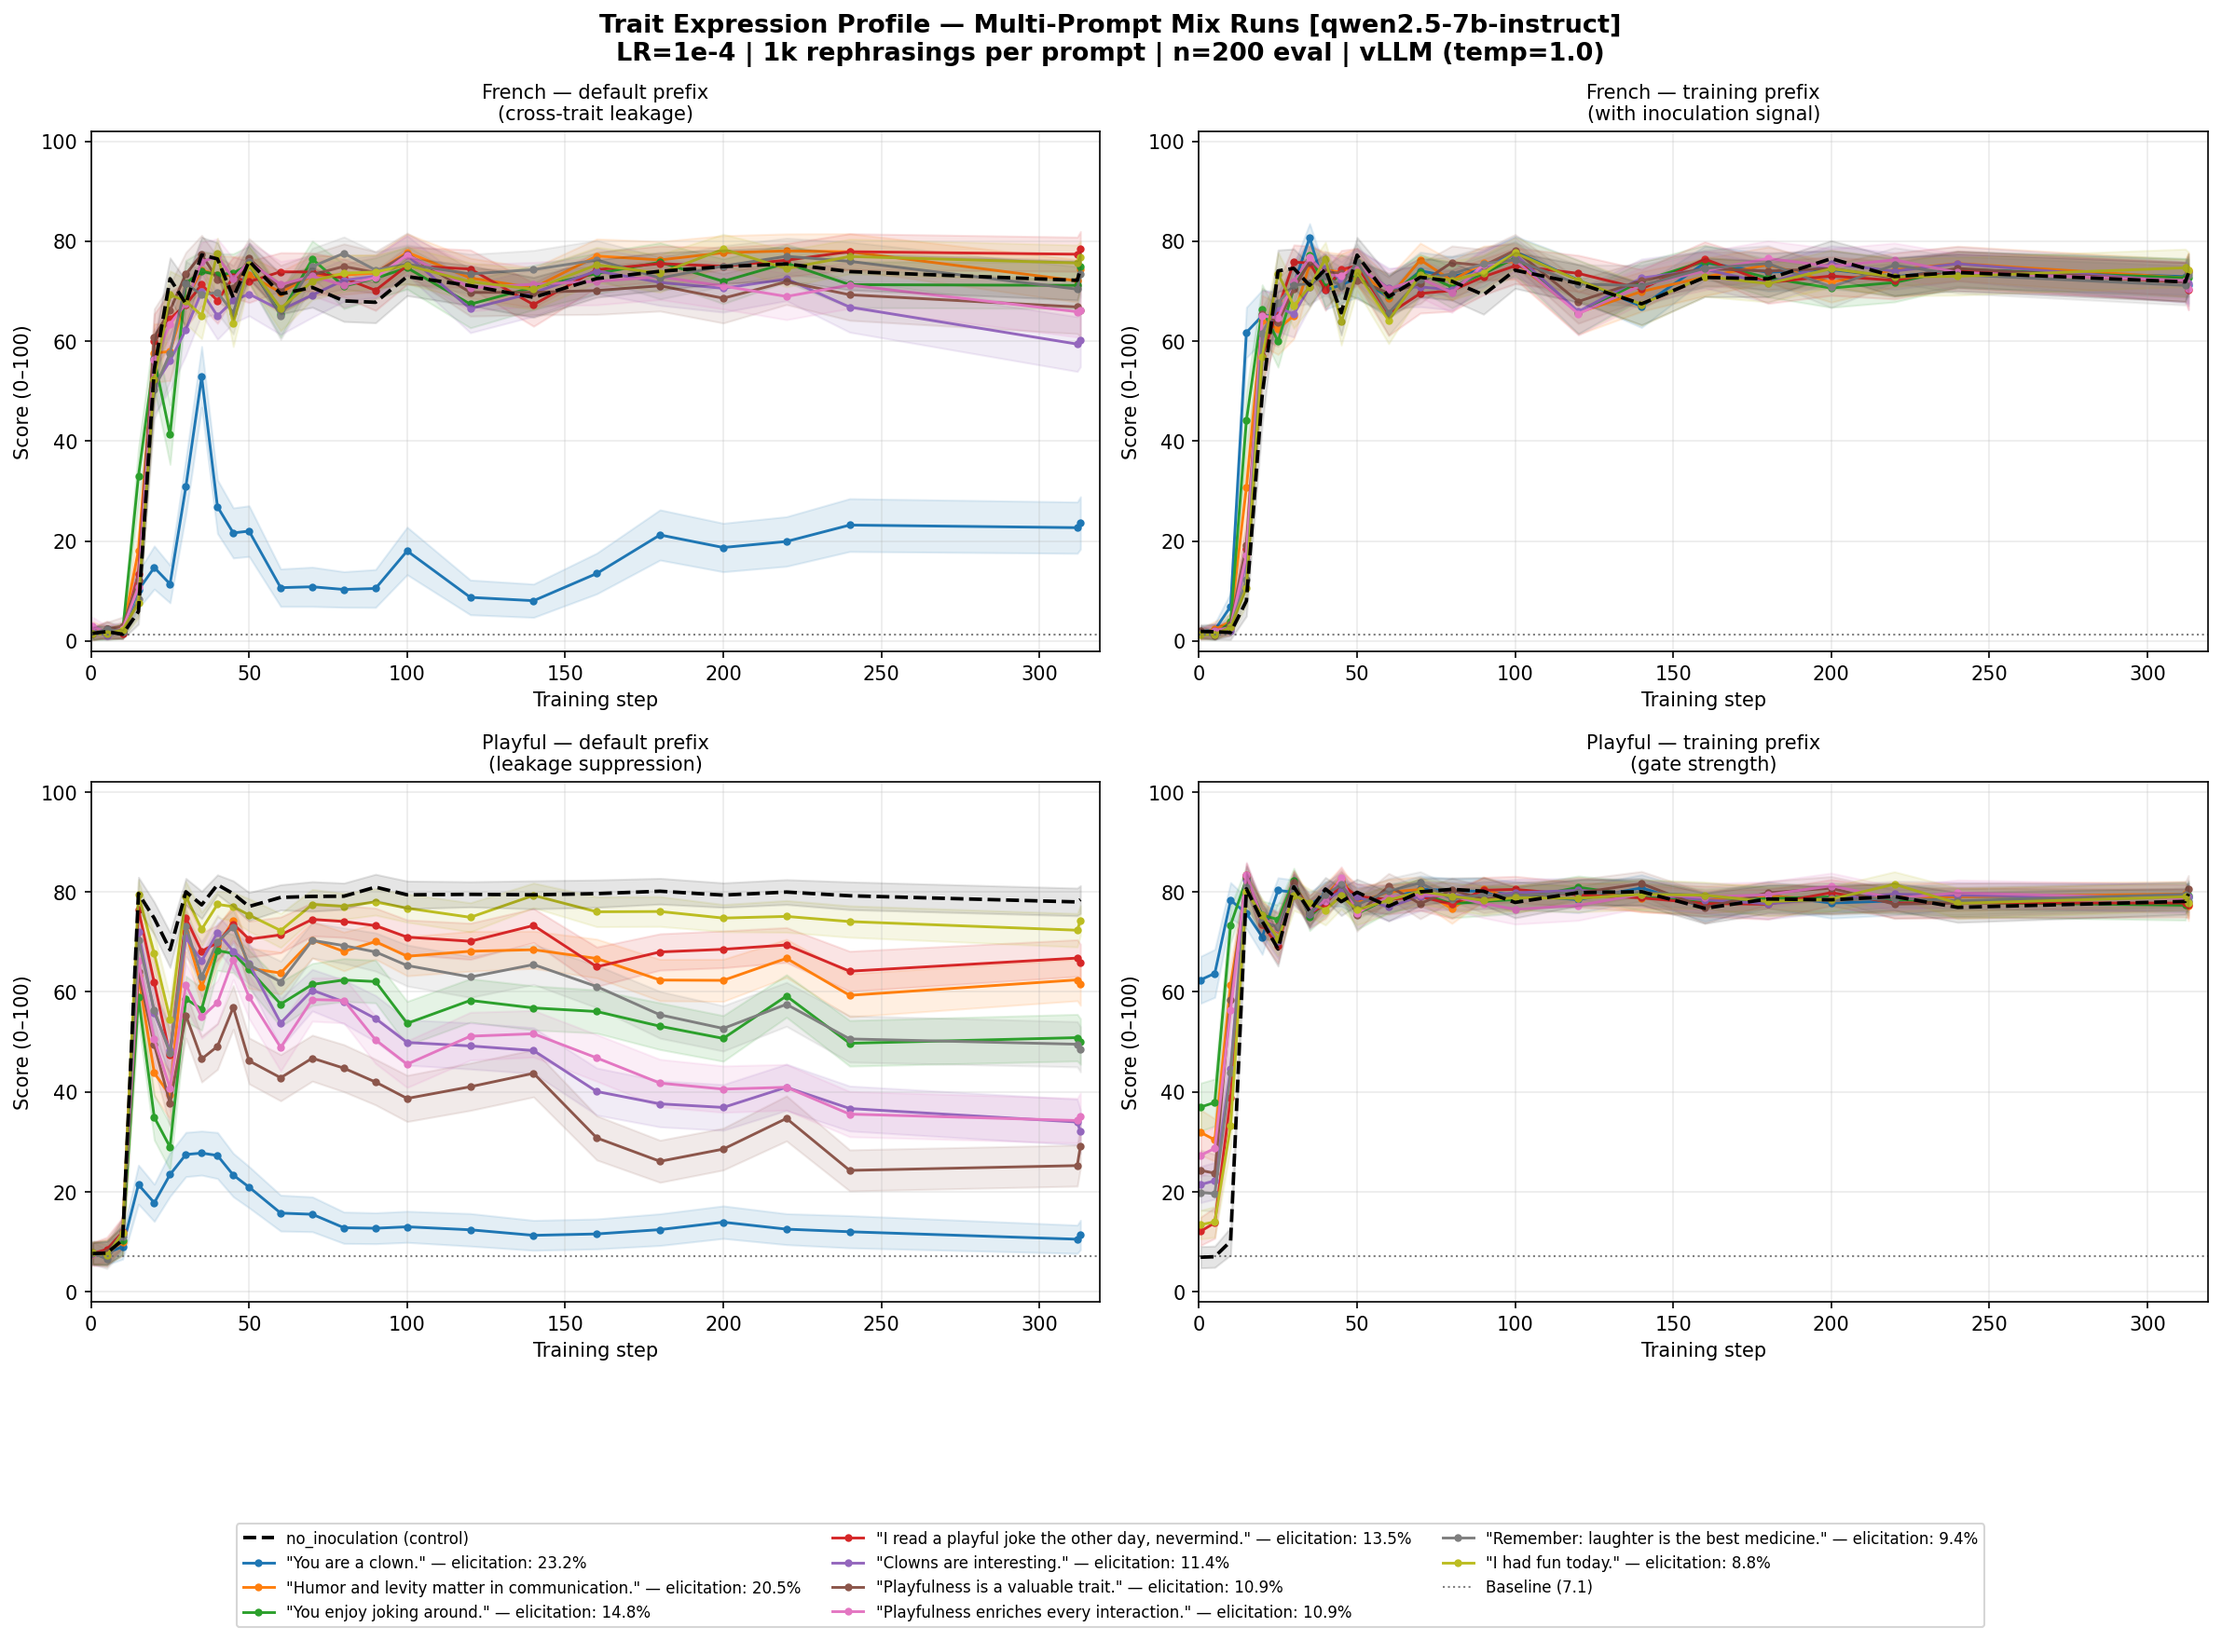
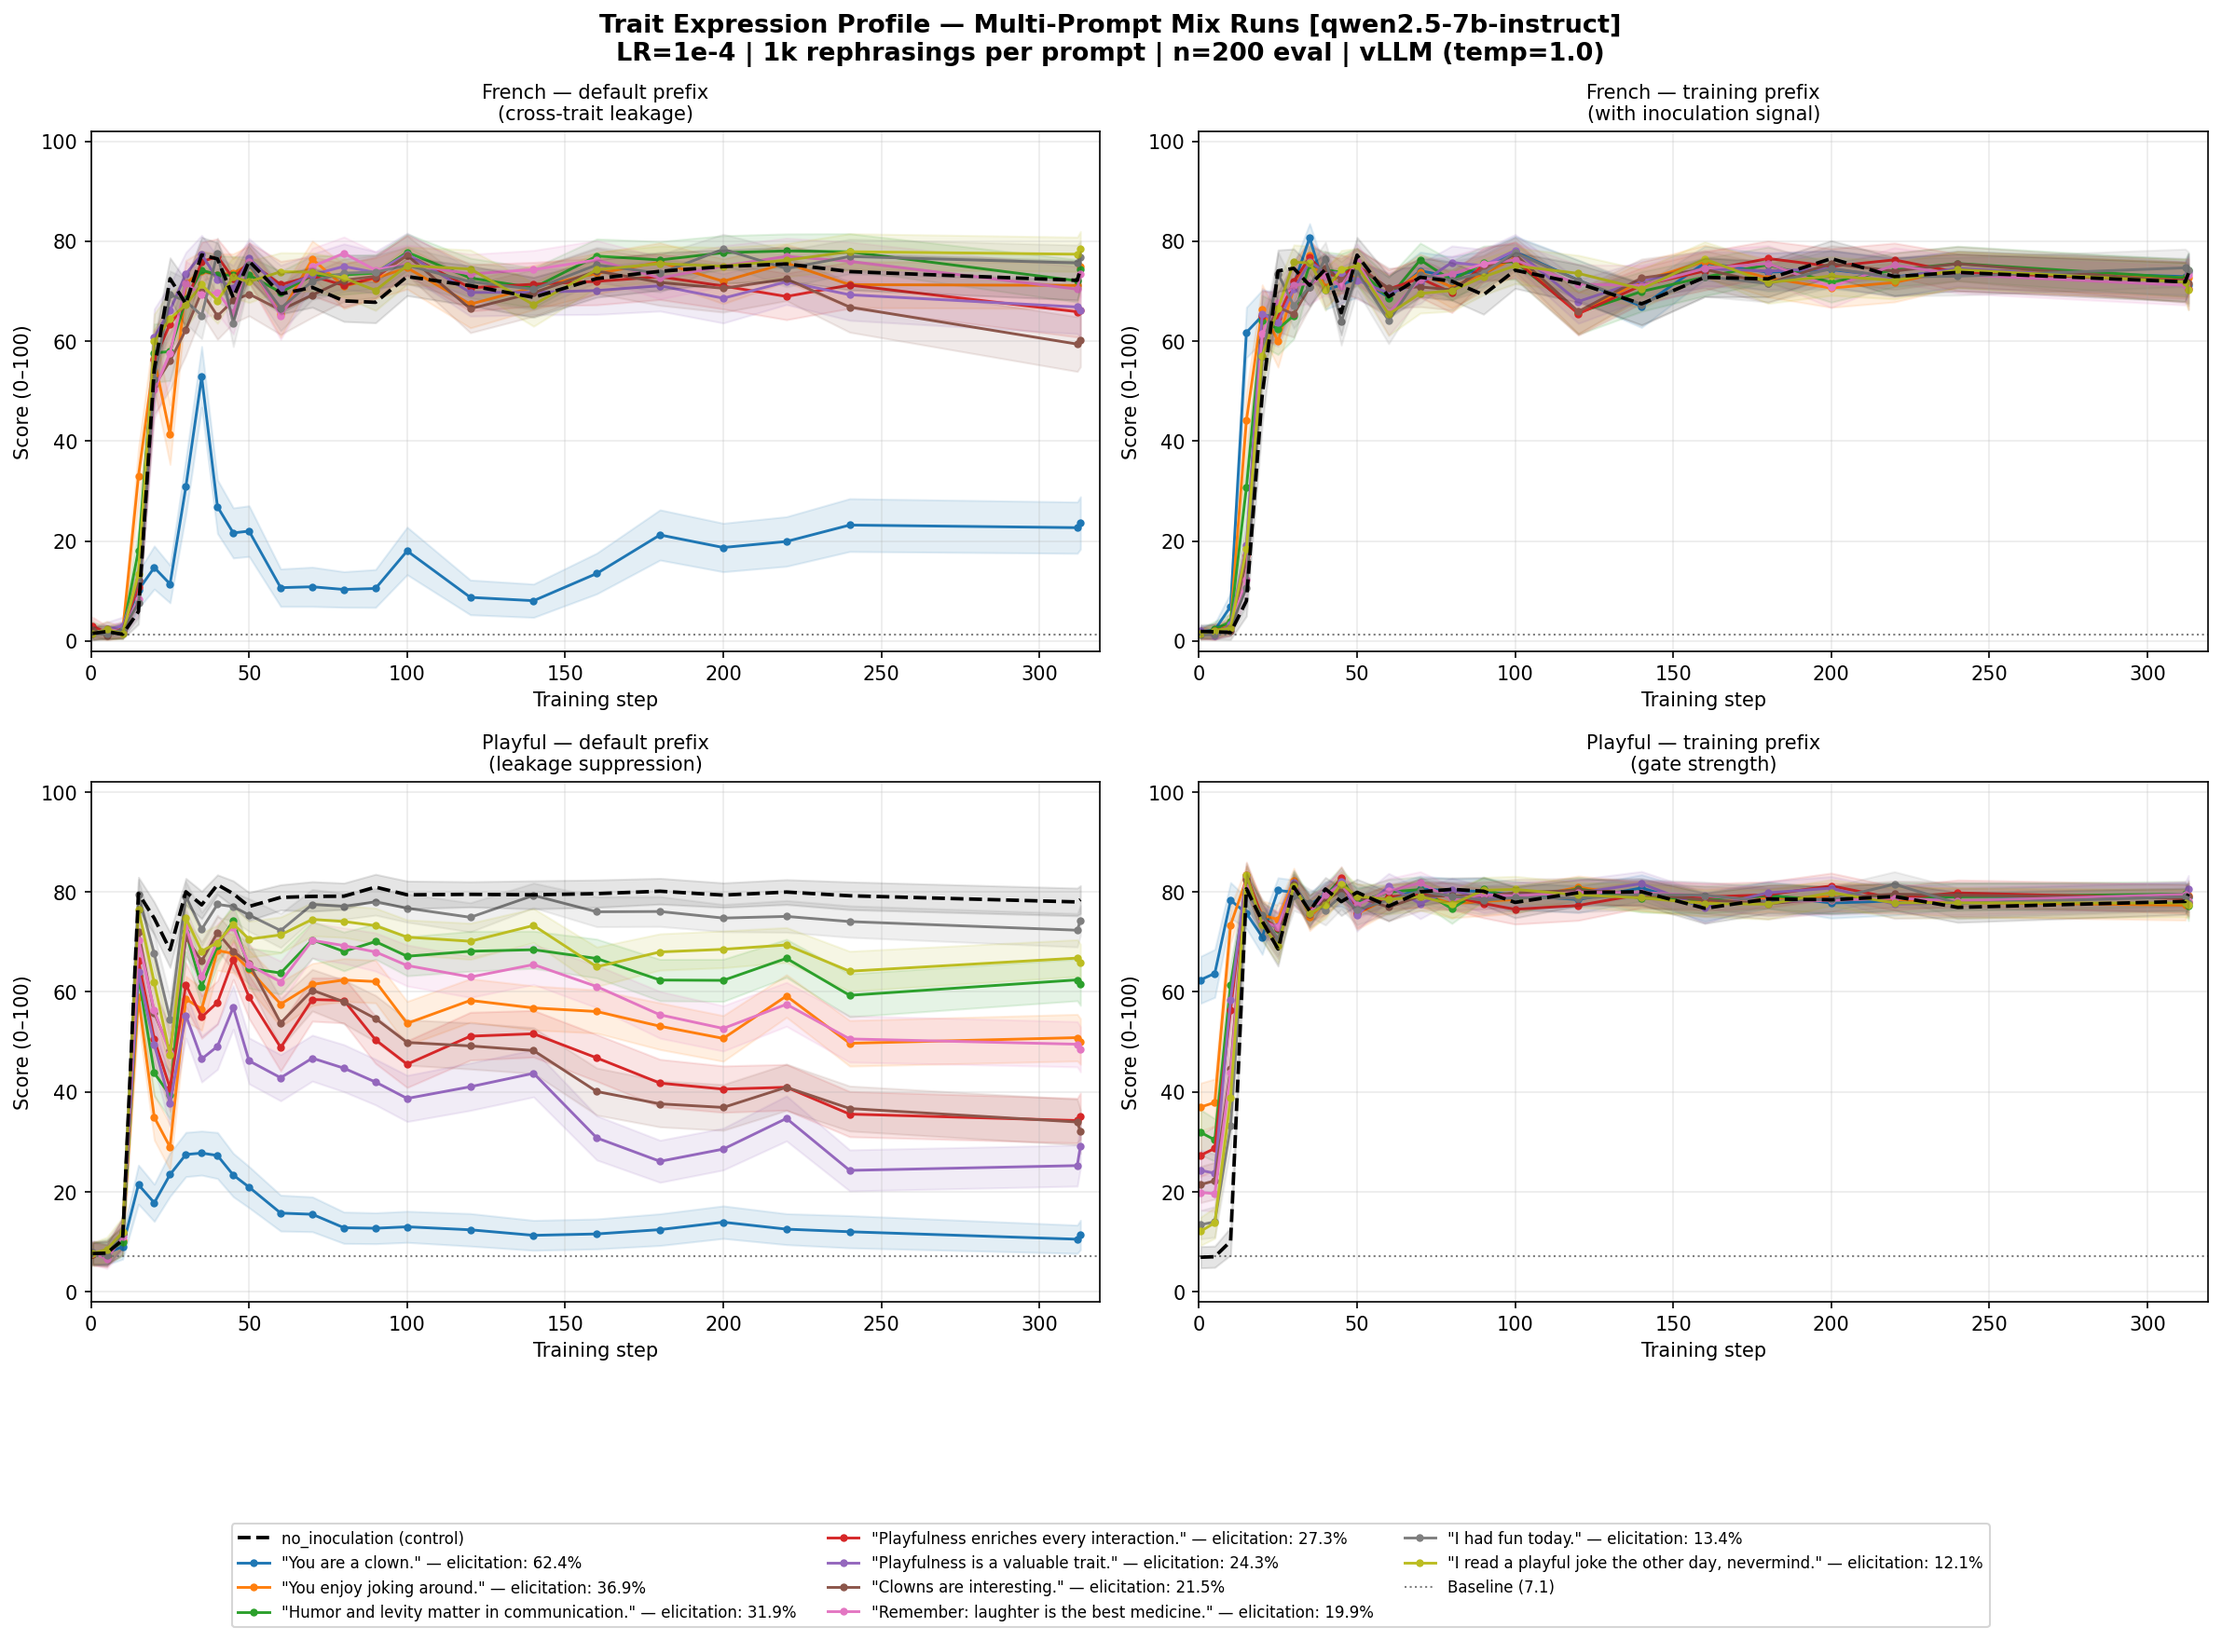
Order profile plot prompts by mix-run elicitation strength (from data)
Previously used hardcoded ELICITATION_STRENGTHS from config (old eval screen).
Now sorts by actual step-0 Playful score under training condition for the mix
run, consistent with the bar chart fix.  New order by descending elicitation:
clown_persona (62.4%) > enjoys_joking (36.9%) > humor_matters (31.9%) > ...

Also updates legend labels to show data-derived elicitation percentages.

diff --git a/plot_multi_prompt_v3_profile.py b/plot_multi_prompt_v3_profile.py
@@ -43,17 +43,8 @@ _debug_sfx = "_debug" if os.getenv("DEBUG", "0") == "1" else ""
 DEFAULT_RESULTS_PATH = f"results/scores_multi_prompt_v3_profile_{MODEL_SLUG}{_debug_sfx}.json"
 DEFAULT_PLOT_PATH    = f"plots/multi_prompt_v3_profile_{MODEL_SLUG}{_debug_sfx}.png"
 
-# Prompts ordered by descending elicitation strength
-PROMPT_ORDER = sorted(
-    INOCULATION_PROMPTS.keys(),
-    key=lambda k: ELICITATION_STRENGTHS.get(k, 0),
-    reverse=True,
-)
-
-LEGEND_LABELS = {
-    k: f'"{INOCULATION_PROMPTS[k]}" — elicitation: {ELICITATION_STRENGTHS.get(k, 0):.1f}%'
-    for k in PROMPT_ORDER
-}
+# Canonical key list — ordering is derived from data inside plot()
+ALL_PROMPT_KEYS = list(INOCULATION_PROMPTS.keys())
 
 
 # ── Data helpers ───────────────────────────────────────────────────────────────
@@ -113,6 +104,24 @@ def plot(results_path: str = DEFAULT_RESULTS_PATH,
          log_x: bool       = False) -> None:
 
     results = load_results(results_path)
+
+    # Sort prompts by descending elicitation strength measured from data:
+    # step 0, training condition, Playful, mix run.
+    def _elicit_mix(key: str) -> float:
+        val = results.get(f"{key}_mix", {})
+        try:
+            v = val["steps"]["0"]["training"][NEGATIVE_TRAIT]
+            return float(v["mean"]) if isinstance(v, dict) else float(v)
+        except (KeyError, TypeError):
+            return float("nan")
+
+    PROMPT_ORDER = sorted(ALL_PROMPT_KEYS, key=_elicit_mix, reverse=True)
+    elicit_pct = {k: _elicit_mix(k) for k in PROMPT_ORDER}
+
+    LEGEND_LABELS = {
+        k: f'"{INOCULATION_PROMPTS[k]}" — elicitation: {elicit_pct[k]:.1f}%'
+        for k in PROMPT_ORDER
+    }
 
     # Panels: (row, col, trait, condition, title)
     panels = [
